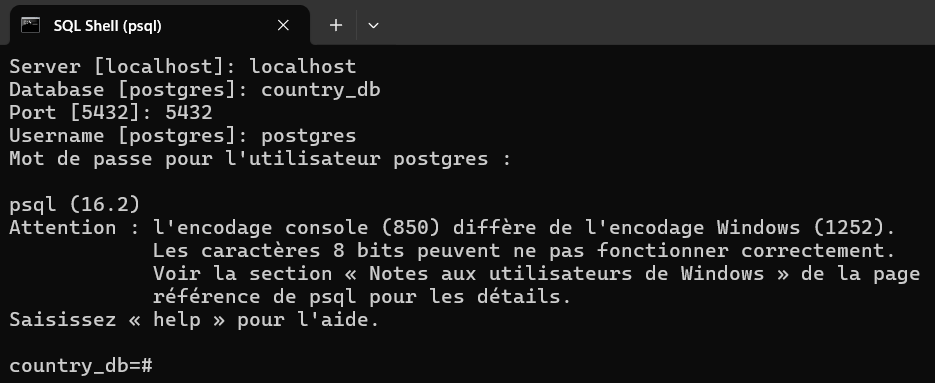
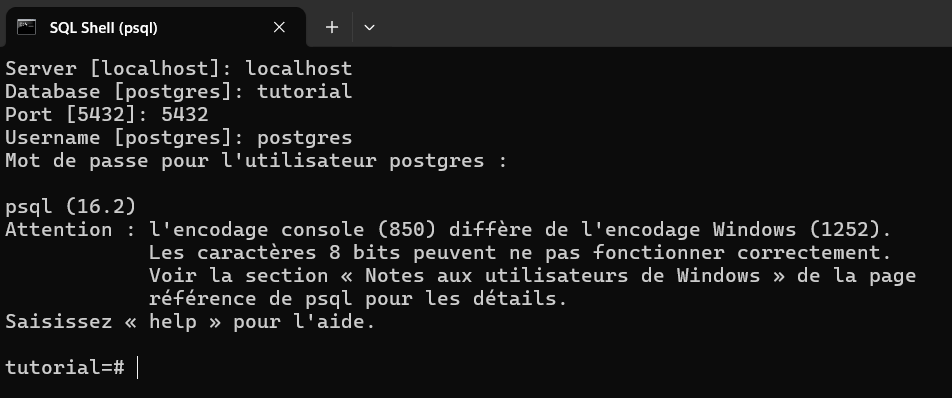
Connection to a db

diff --git a/001-Tutorial/README.md b/001-Tutorial/README.md
@@ -33,14 +33,22 @@ Below are some clients that can be used to connect to our DB server:
 
 In the Windows start-up menu, search for "SQL Shell (psql)".
 
-* Connection
+* **Connection**
 
 ![alt text](images/image-4.png)
 
-* Result after connection
+* **Result after connection**
 
 ![alt text](images/image-5.png)
 
+* **Create a new database**
 
+> \? give you the help documentation
+
+> \q followed by O to quit
+
+> \l list the currently available databases
+
+![alt text](images/image-6.png)
 
 
